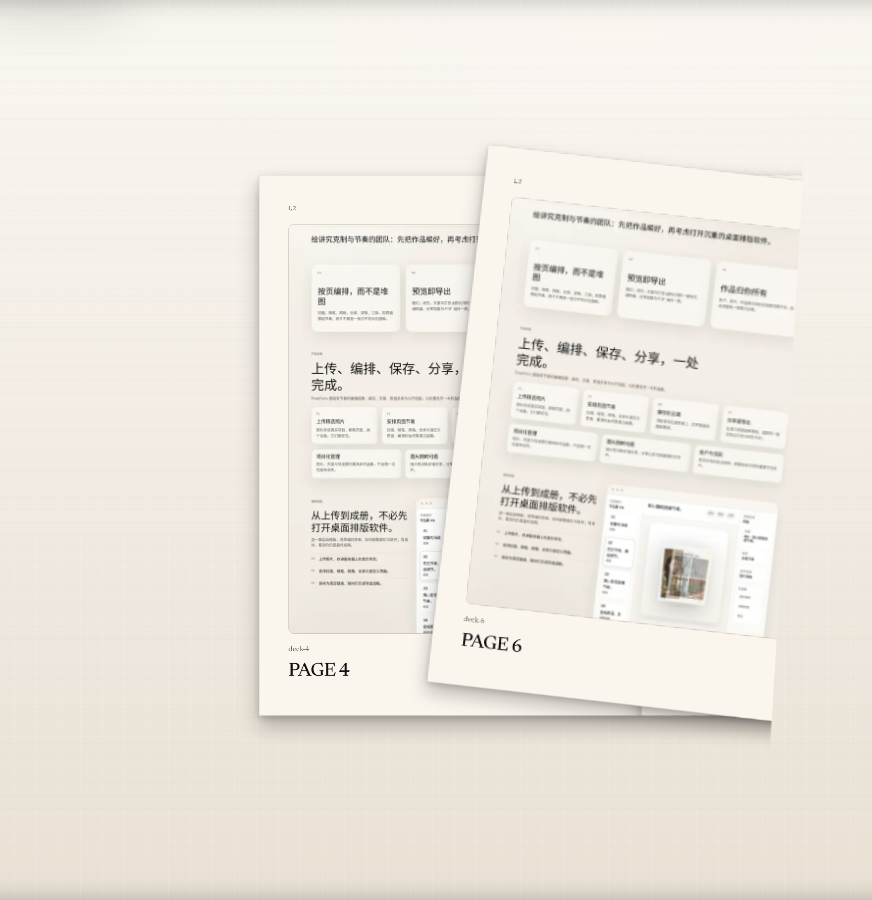
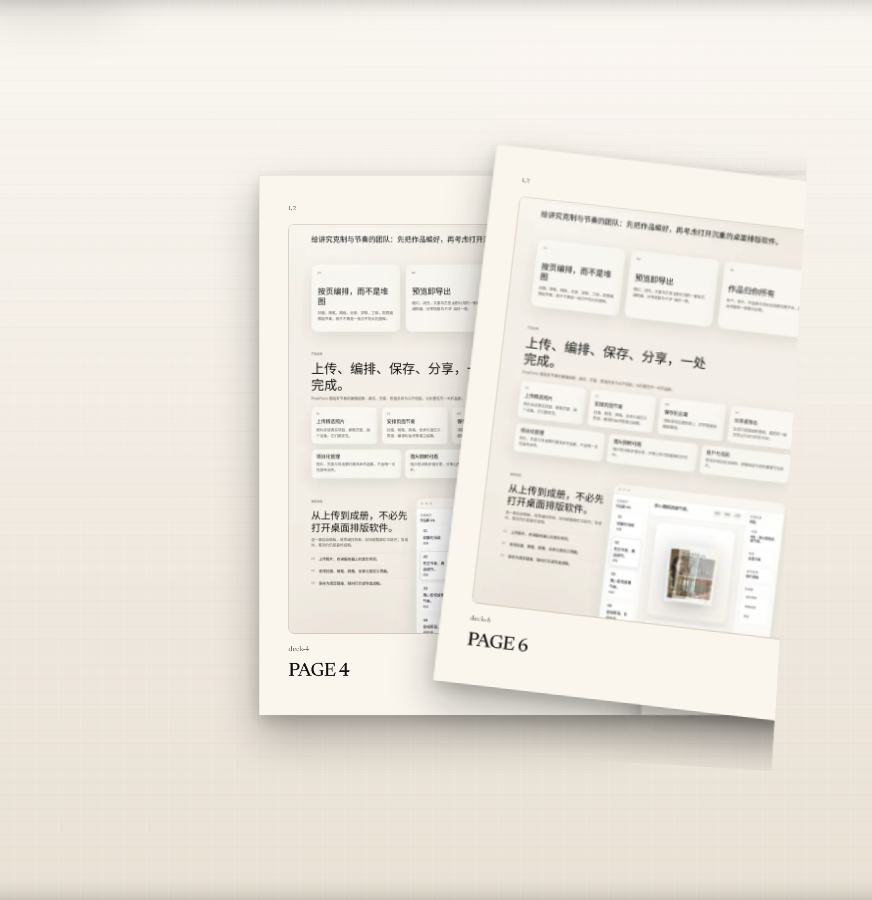
Restore the turn clipping chain and move the page shadow to .inner-page
Opening .inner-page and the boundary page broke the turn animation. Restore their
original clipping. The page shadow now lives on .inner-page, which turn.js
transforms, and only .page-wrapper is opened and .clip gets a 48px clip margin so
the shadow can show while content stays clipped. The shadow is a static
box-shadow with no filter, so it does not flicker and images are not
re-rasterized.

Measured: the turn animation is back to normal, page shadows are visible at rest
and in flight, and page content does not spill.

diff --git a/src/styles.css b/src/styles.css
@@ -5018,11 +5018,13 @@ button.asset-frame {
   backface-visibility: hidden;
 }
 
-.issue-viewer__turnjs .page-wrapper {
-  overflow: visible !important;
+.issue-viewer__turnjs.issue-viewer__turnjs--ready > .issue-turnjs__page {
+  display: none !important;
 }
 
-.issue-viewer__turnjs .inner-page {
+
+
+.issue-viewer__turnjs .page-wrapper {
   overflow: visible !important;
 }
 
@@ -5031,11 +5033,13 @@ button.asset-frame {
   overflow-clip-margin: 48px;
 }
 
-.issue-viewer__turnjs.issue-viewer__turnjs--ready > .issue-turnjs__page {
-  display: none !important;
+/* Each page's own shadow lives on the transformed inner sheet. It is a static
+   box-shadow, so it does not flicker and does not force image re-rasterization. */
+.issue-viewer__turnjs .inner-page {
+  box-shadow:
+    0 22px 40px rgba(17, 17, 17, 0.28),
+    0 6px 14px rgba(17, 17, 17, 0.16);
 }
-
-
 
 .issue-viewer__turnjs .even .gradient,
 .issue-viewer__turnjs .odd .gradient,
@@ -5060,7 +5064,9 @@ button.asset-frame {
 }
 
 .issue-turnjs__page--boundary {
-  overflow: visible;
+  overflow: hidden;
+  overflow: clip;
+  overflow-clip-margin: 14px;
 }
 
 .issue-turnjs__sheet {
@@ -5081,14 +5087,14 @@ button.asset-frame {
 
 .issue-turnjs__sheet-scale .magazine-page {
   box-shadow:
-    0 22px 40px rgba(17, 17, 17, 0.28),
-    0 6px 14px rgba(17, 17, 17, 0.16);
+    0 7px 12px rgba(17, 17, 17, 0.008),
+    0 2px 4px rgba(17, 17, 17, 0.004);
 }
 
 .issue-turnjs__page--boundary .issue-turnjs__sheet-scale .magazine-page {
   box-shadow:
-    0 20px 36px rgba(17, 17, 17, 0.26),
-    0 5px 12px rgba(17, 17, 17, 0.15);
+    0 8px 14px rgba(17, 17, 17, 0.011),
+    0 2px 5px rgba(17, 17, 17, 0.005);
 }
 
 .issue-viewer__boundary-turn {

diff --git a/tests/e2e/reader-turn.spec.ts b/tests/e2e/reader-turn.spec.ts
@@ -135,7 +135,7 @@ async function pageShadowState(page: Page): Promise<PageShadowState | null> {
       globalAfterShadow: getComputedStyle(book, '::after').boxShadow,
       wrapperFilters: wrappers.map((wrapper) => getComputedStyle(wrapper).filter),
       visiblePageShadows: visible.map(
-        (wrapper) => getComputedStyle(wrapper.querySelector('.magazine-page') ?? wrapper).boxShadow,
+        (wrapper) => getComputedStyle(wrapper.querySelector('.inner-page') ?? wrapper).boxShadow,
       ),
       imageAncestorFilters,
     };
@@ -233,7 +233,7 @@ test('hovering a corner and pressing a page do not change the page shadow', asyn
         if (wrapper.getBoundingClientRect().width <= 10) return;
         const page = wrapper.querySelector('.page');
         const key = page?.className.match(/\bp\d+\b/)?.[0] ?? Math.random().toString();
-        map.set(key, getComputedStyle(wrapper.querySelector('.magazine-page') ?? wrapper).boxShadow);
+        map.set(key, getComputedStyle(wrapper.querySelector('.inner-page') ?? wrapper).boxShadow);
       });
       return Array.from(map.entries());
     });

diff --git a/docs/issue-register.md b/docs/issue-register.md
@@ -163,7 +163,7 @@
 | T7 | 图库磁贴悬停时边框变白，照片像被裁掉 | hover 规则用了白色边框 + 浮起阴影 | 已修复：悬停只把边框加深到 30% 墨色，不浮起、不变白 |
 | T8 | 图片未加载时显示纯白块，像是坏了 | 没有加载/失败状态 | 已修复：共用 `PhotoThumb`，加载中显示“加载中…”，失败显示“图片无法显示”；证据 `docs/evidence/2026-11-21-gallery-loading.png` |
 | T9 | 点击 UnAlbum 图片只显示“导入中”，随后没有反应，实际无法使用 | 导入路由还引用了已删除的 `binding` 变量，接口 500 | 已修复：使用 `getPhotoForUser` 返回的 binding；`validate:mvp` 新增真实导入 + 去重 + 缩略图代理用例 |
-| T20 | 全局背景阴影闪烁/消失/提前出现；页面阴影在按压、拖动、悬停角时闪烁；翻页中图片闪烁；阴影被 turn.js 裁剪链完全裁掉 | 背景阴影绑定掀起时序；页面阴影用 `filter: drop-shadow` 强制整页重栅格化；`.inner-page`/`.clip` 的 `overflow: hidden` 把 `box-shadow` 裁掉 | 已移除全局背景阴影；页面阴影改为 `.magazine-page` 的 `box-shadow`，并放开 `.inner-page`、给 `.clip` 48px clip margin，让阴影可见且内容仍裁剪；无 filter 祖先，图片不重绘。测试 reader 6/6 |
+| T20 | 全局背景阴影闪烁/消失/提前出现；页面阴影在按压、拖动、悬停角时闪烁；翻页中图片闪烁；阴影被 turn.js 裁剪链裁掉；放开裁剪又破坏翻页动画 | 背景阴影绑定掀起时序；页面阴影用 `filter` 强制重栅格化；`.inner-page`/`.clip` 裁剪隐藏阴影 | 已移除全局背景阴影；阴影改在 `.inner-page` 的 `box-shadow`，只放开 `.page-wrapper` 与 `.clip` 的 48px clip margin，保留 `.inner-page`/边界页裁剪，动画不受影响；无 filter 祖先，图片不闪烁。测试 reader 6/6 |
 | T19 | 从封面翻开时左侧出现第二页内容；turn.js 单面页面把封面正面留在左边、把目标页画在翻页背面 | 阅读器把每一页当作单面 DOM，turn.js 的 sheet 效果没有独立背面 | **未修复，需页面模型改造**：正确方案是把奇数页/偶数页配成一张纸，正反两面分别渲染并做背面隐藏；试过的 CSS 镜像/隐藏背面会产生空白或扭曲，已回退。需要确认翻页配对规则后再改（见报告 2026-11-22） |
 | T18 | 分享页未翻页时杂志没有任何背景阴影或轮廓，像浮在空白上的白纸；已有的阴影 CSS 从未被任何代码激活 | 阴影状态类无人设置，turn.js 自带 `.shadow` 又被强制隐藏 | 已修复：在书本体上增加非旋转接触阴影（左右两半，`::before`/`::after`），按 cover/spread/last 三种静止形态只覆盖真实纸张，翻页期间按仍在桌面上的纸张逐半保留/移除；1px 纸边 + 两层柔和投影，ready 后才淡入。实测 cover/spread/翻页中/落页/折角/拖拽折角/移动端/全屏 8 种状态；证据 `docs/evidence/2026-11-22-reader-*.png`；新增 e2e 断言三种静止形态的阴影几何 |
 | T14 | 公开分享页拖拽翻页后，页面一直粘在鼠标上，松开左键或单击都不释放 | 内置 turn.js 在全局 mouseup 中对 `document` 调用 `offset()`、对没有事件数据的元素取 `dispatch`，抛错后没有清理拖拽状态；peel 释放时又访问了不存在的 `dpoint` | 已修复：对 vendor 里三处做防御（document offset、缺失 events、缺失 dpoint），并把版本号提升到 `20261121e`；新增 e2e 拖拽-释放-移动断言，连续 8 次通过 |

diff --git a/docs/remediation-report-2026-11-22.md b/docs/remediation-report-2026-11-22.md
@@ -19,12 +19,12 @@ static CSS, so it cannot flicker, disappear, or appear early.
 - Removed the two half-layers (`.issue-viewer__turnjs::before/::after`) and all
   code that toggled them (`shadowLeft`/`shadowRight`, `data-lift-side`, the
   per-frame lift loop, pointer-drag tracking).
-- `.issue-turnjs__sheet-scale .magazine-page` has a `box-shadow`. Turn.js
-  transforms the sheet, so the shadow follows the moving page. There is no
-  `filter` on the wrapper or on any image ancestor.
-- `.inner-page` is `overflow: visible` and `.clip` is `overflow: clip` with a
-  48px clip margin, so the page's box-shadow can extend outside the sheet while
-  the page content is still clipped.
+- `.inner-page` has a `box-shadow`. Turn.js transforms it, so the shadow follows
+  the moving page. There is no `filter` on the wrapper or on any image ancestor.
+- `.page-wrapper` is `overflow: visible` and `.clip` is `overflow: clip` with a
+  48px clip margin, so the shadow can extend outside the sheet while the page
+  content is still clipped. `.inner-page` and the boundary page keep their
+  original clipping so the turn animation is unchanged.
 - Turn.js `gradients` is off and its `inner-gradient`/`outer-gradient` layers are
   hidden, so there is no direction-dependent spine band.
 - The page's own `.magazine-page` box-shadow remains as a subtle surface edge.
@@ -57,7 +57,7 @@ static CSS, so it cannot flicker, disappear, or appear early.
 | Fullscreen | `2026-11-22-reader-fullscreen.png` |
 
 **Regression guard:** `tests/e2e/reader-turn.spec.ts` asserts that visible pages
-carry a visible `box-shadow` in every state (cover, spread, last page, mid-turn,
+carry a visible `box-shadow` on `.inner-page` in every state (cover, spread, last page, mid-turn,
 press, mobile, auto-slide), that no page wrapper or image ancestor has a `filter`,
 and that the book has no `::before`/`::after` background layer. A dedicated test
 hovers all four corners and presses the page, asserting the per-page shadow value

diff --git a/docs/devlog.md b/docs/devlog.md
@@ -1914,14 +1914,14 @@
   at full strength while a page was in the air, and that turn.js's fold gradients
   were the direction-dependent spine shading. Turn.js's `.shadow` element paints
   nothing and was ruled out.
-- The global background shadow is gone. Every page surface carries its own
+- The global background shadow is gone. Every page's `.inner-page` carries its own
   `box-shadow`, so a page has a shadow whether closed, open, turning, or flat,
-  and it follows the sheet through the air. `.inner-page` is overflow visible and
-  `.clip` keeps a 48px clip margin so the shadow shows while content stays
-  clipped. No `filter` is used on the wrapper or on image ancestors, so page
-  content is not re-rasterized during the turn and images do not flicker. With no
-  global layer there is nothing to vanish on a drag or reappear before a
-  cancelled page settles.
+  and it follows the sheet through the air. `.page-wrapper` is overflow visible
+  and `.clip` keeps a 48px clip margin so the shadow shows while content stays
+  clipped; `.inner-page` and the boundary page keep their original clipping so
+  the turn animation is unchanged. No `filter` is used on the wrapper or on image
+  ancestors, so page content is not re-rasterized during the turn and images do
+  not flicker.
 - Turn.js gradients are disabled and their layers hidden, so the spine has the same
   (no) shading in both directions.
 - The moving sheet keeps its own shadow: the per-frame pass marks page wrappers
